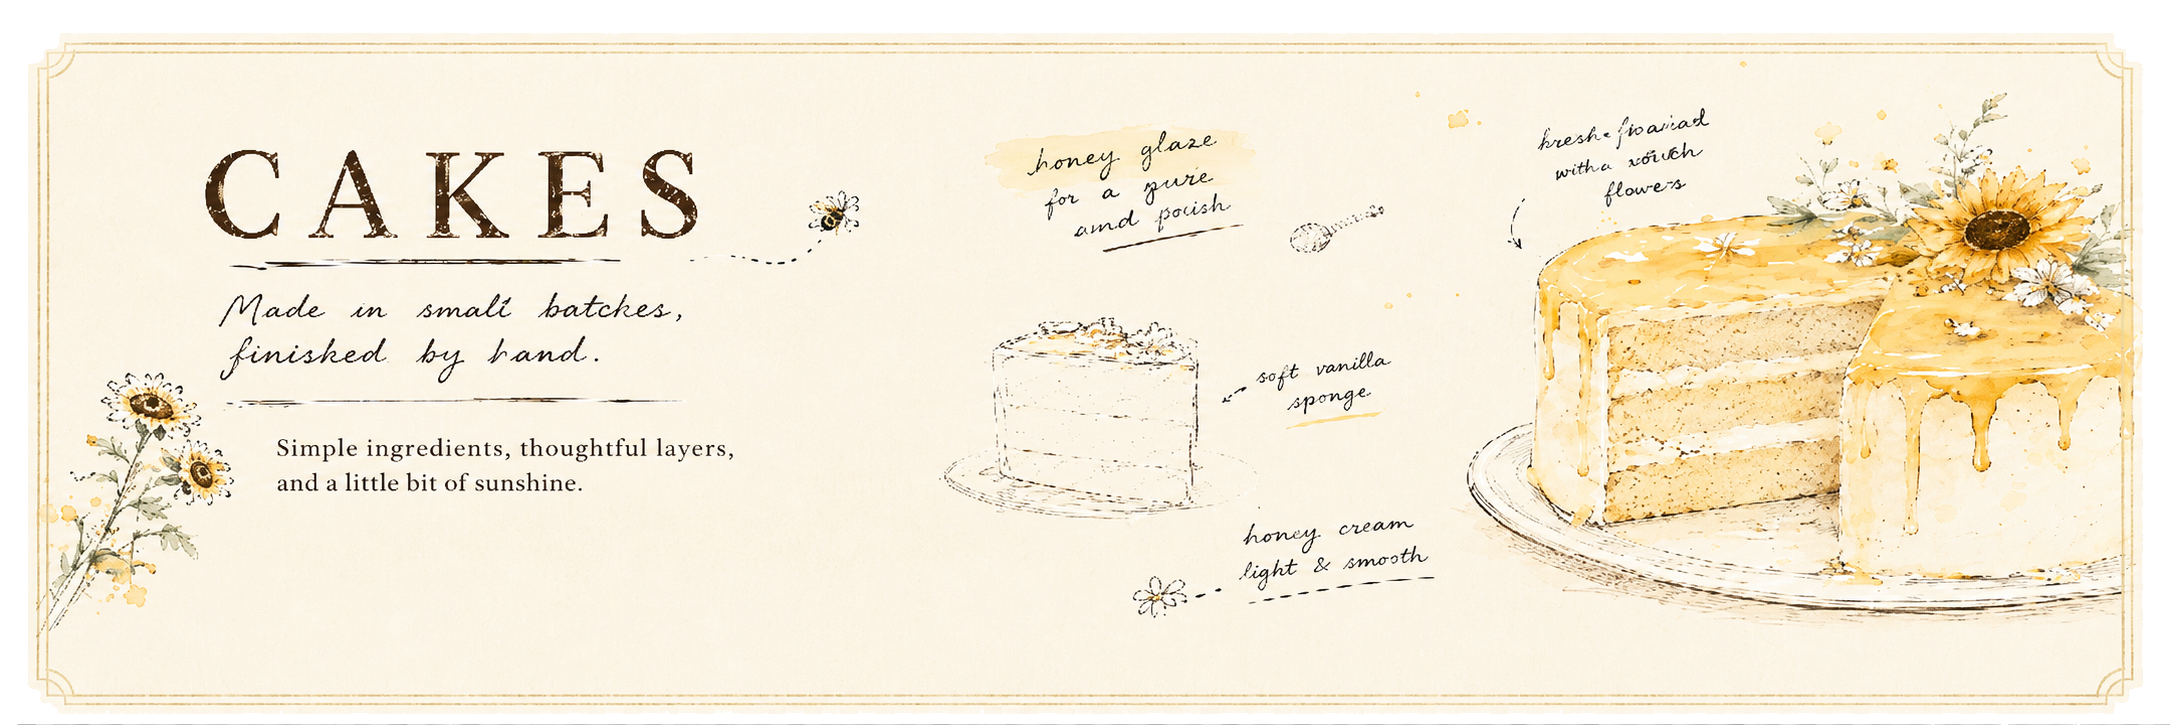
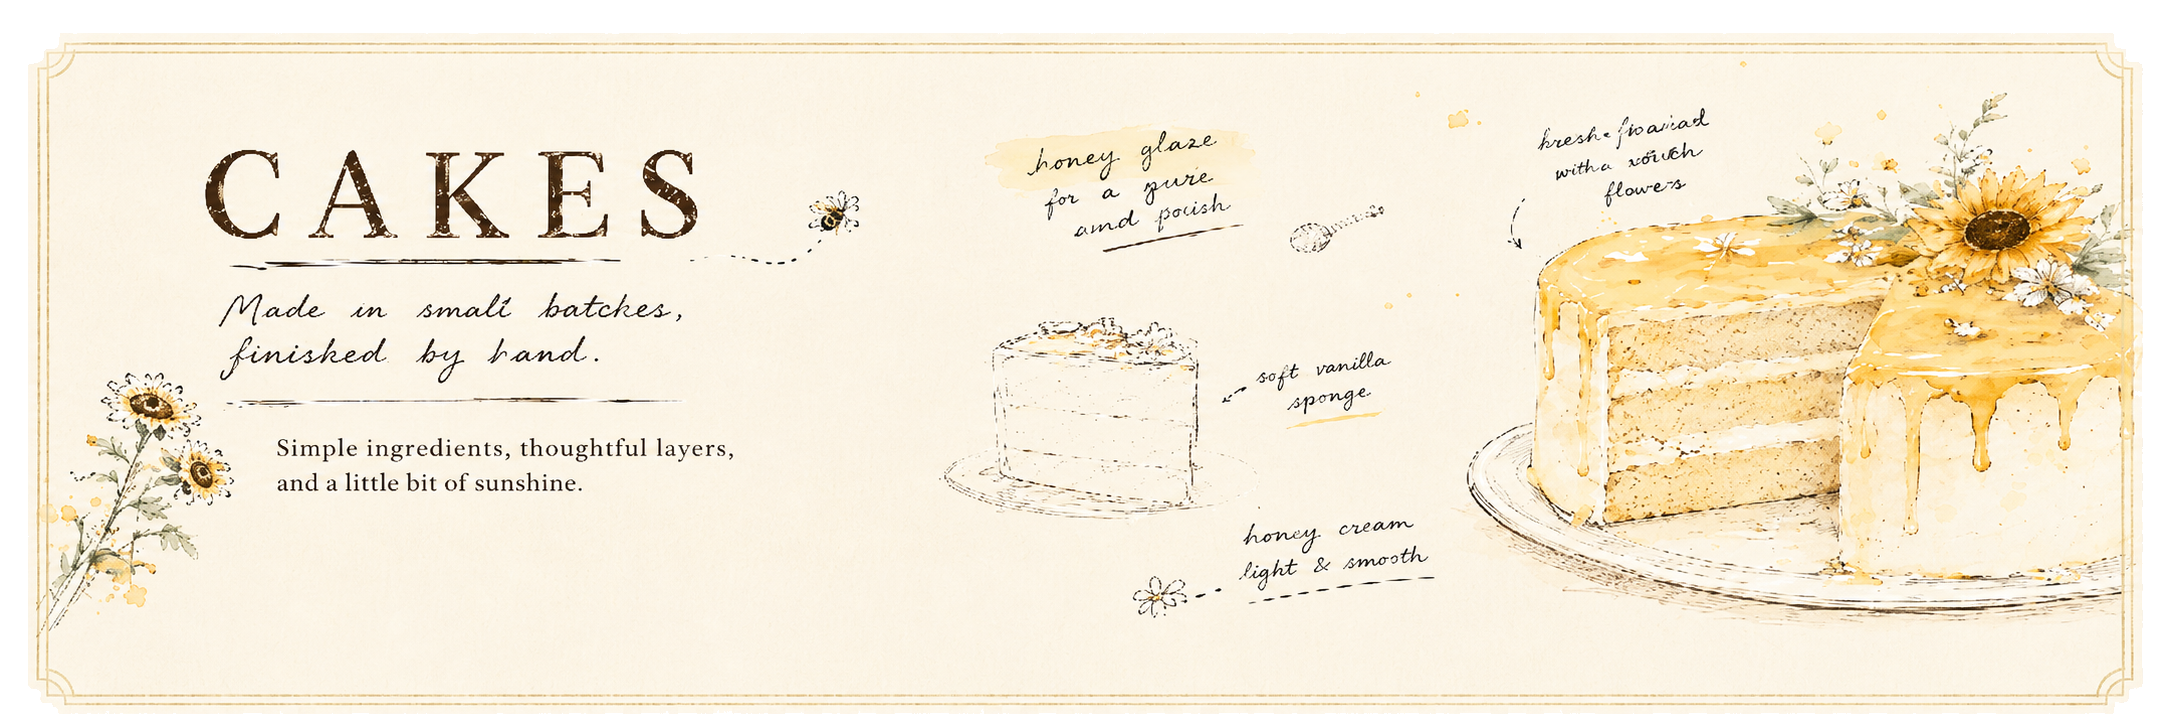
5日更新分・画像追加

diff --git a/src/main/resources/static/css/style.css b/src/main/resources/static/css/style.css
@@ -566,7 +566,9 @@ body.menu{
     position: relative;
 }
 .menuTopImg{
-	width:100%;
+	width: 90%;
+	 display: block;
+	 margin: 0 auto;
 }
 .menuNav{
 	position: absolute;
@@ -586,11 +588,11 @@ body.menu{
 .menuNextImg,
 .categoryImg{
 	display: block;
-	width: 100%;
-	max-width: 800px;
+	width: 90%;
+	max-width: 1100px;
 	height: auto;
 	margin: 100px auto;
-}
+	}
 .categoryCakesImg{
 	margin: 200px auto 100px;
 }
@@ -758,6 +760,24 @@ body.menu{
         transform: scaleX(1);
     }
 }
+
+/* 小さめのPC */
+@media screen and (max-width: 1400px){
+
+    .menuNav{
+        position: static;      /* 画像の上への絶対配置を解除 */
+        width: 90%;
+        margin: 15px auto 0;
+        text-align: center;
+        font-size: 22px;
+        line-height: 1.8;
+    }
+
+    .menuNav a{
+        margin: 0 6px;
+    }
+}
+
 /*==================
   フローティングカート
 ==================*/
@@ -869,13 +889,13 @@ body.menu{
     margin-top:10px;
 }
 
-.menuFooterImg{
-    display:block;
-    width:100%;
-    max-height:280px;
-    object-fit:cover;
-	margin-bottom: 0;
+.menuFooterImg {
+    display: block;
+    width: 100%;
+    height: auto;
+    margin-bottom: 0;
 }
+
 /*===============
 注文完了フォーム
 ===============*/

diff --git a/target/classes/static/css/style.css b/target/classes/static/css/style.css
@@ -566,7 +566,9 @@ body.menu{
     position: relative;
 }
 .menuTopImg{
-	width:100%;
+	width: 90%;
+	 display: block;
+	 margin: 0 auto;
 }
 .menuNav{
 	position: absolute;
@@ -586,11 +588,11 @@ body.menu{
 .menuNextImg,
 .categoryImg{
 	display: block;
-	width: 100%;
-	max-width: 800px;
+	width: 90%;
+	max-width: 1100px;
 	height: auto;
 	margin: 100px auto;
-}
+	}
 .categoryCakesImg{
 	margin: 200px auto 100px;
 }
@@ -758,6 +760,24 @@ body.menu{
         transform: scaleX(1);
     }
 }
+
+/* 小さめのPC */
+@media screen and (max-width: 1400px){
+
+    .menuNav{
+        position: static;      /* 画像の上への絶対配置を解除 */
+        width: 90%;
+        margin: 15px auto 0;
+        text-align: center;
+        font-size: 22px;
+        line-height: 1.8;
+    }
+
+    .menuNav a{
+        margin: 0 6px;
+    }
+}
+
 /*==================
   フローティングカート
 ==================*/
@@ -869,13 +889,13 @@ body.menu{
     margin-top:10px;
 }
 
-.menuFooterImg{
-    display:block;
-    width:100%;
-    max-height:280px;
-    object-fit:cover;
-	margin-bottom: 0;
+.menuFooterImg {
+    display: block;
+    width: 100%;
+    height: auto;
+    margin-bottom: 0;
 }
+
 /*===============
 注文完了フォーム
 ===============*/
